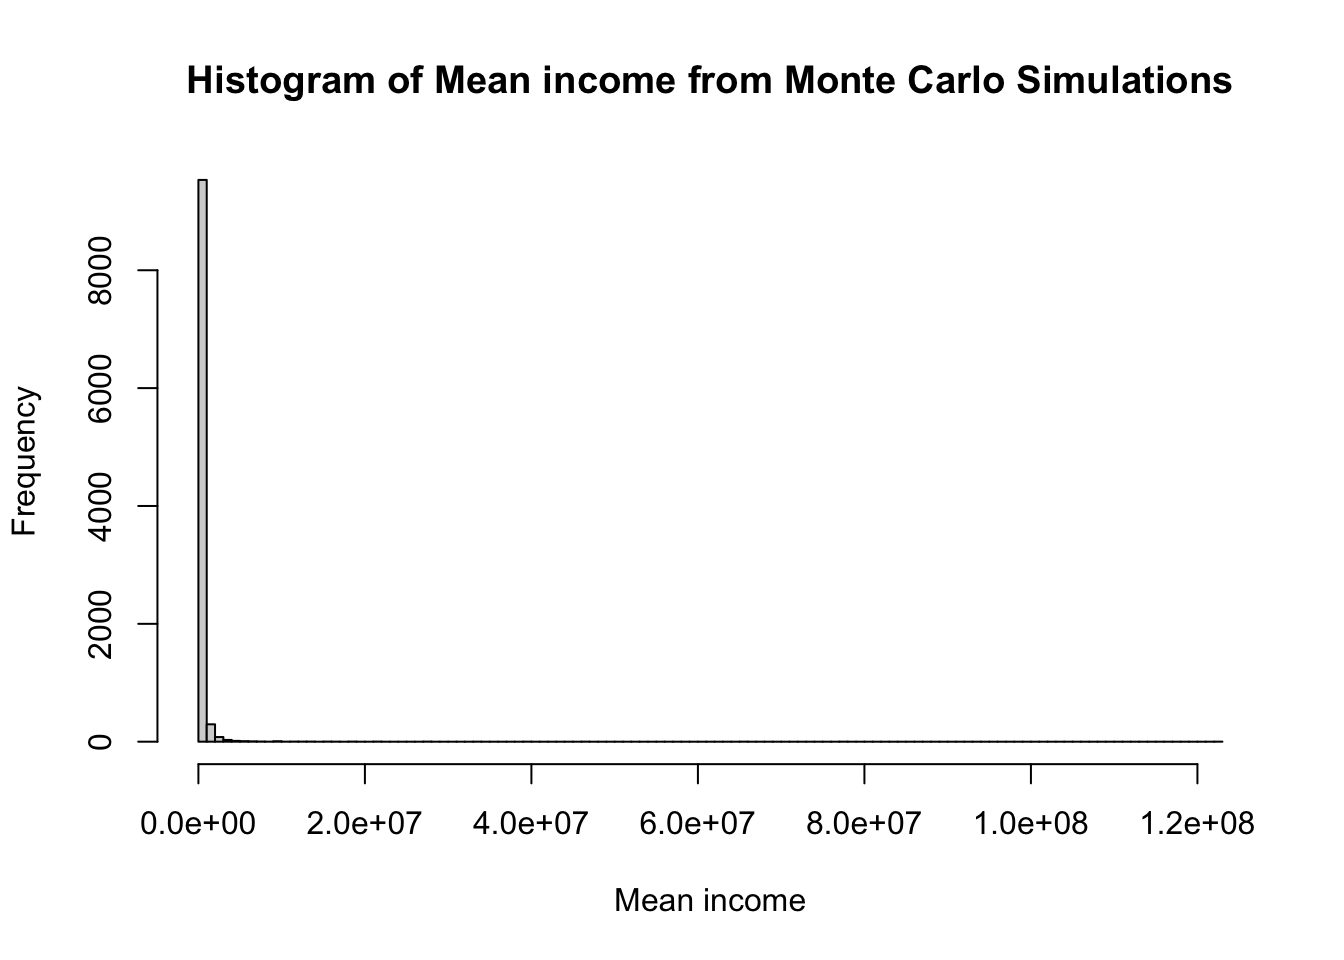
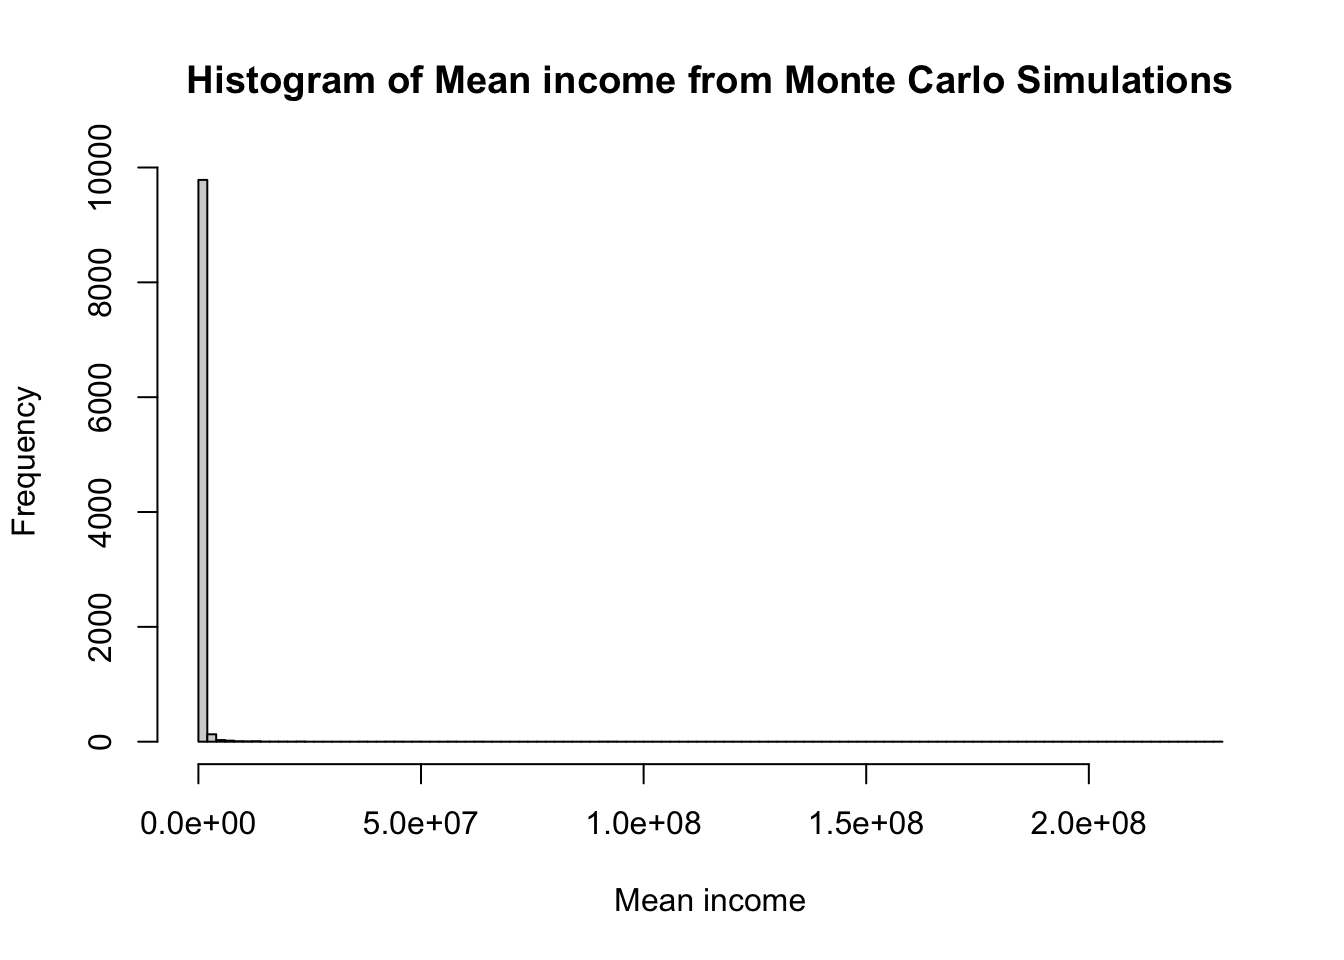
281124scroll

diff --git a/docs/posts/montecarlo.html b/docs/posts/montecarlo.html
@@ -1977,7 +1977,7 @@ Income distribution is not normal
 </details>
 <div class="cell-output cell-output-stdout">
 <pre><code>     Min.   1st Qu.    Median      Mean   3rd Qu.      Max. 
-   206564    296652    343461    523539    437288 122857154 </code></pre>
+   207500    295948    344892    577105    439793 228674374 </code></pre>
 </div>
 <details open="" class="code-fold">
 <summary>Code</summary>
@@ -1985,7 +1985,7 @@ Income distribution is not normal
 </details>
 <div class="cell-output cell-output-stdout">
 <pre><code>   Min. 1st Qu.  Median    Mean 3rd Qu.    Max. 
-  62353   64074   64509   64519   64949   67003 </code></pre>
+  62353   64069   64493   64501   64925   66985 </code></pre>
 </div>
 <details open="" class="code-fold">
 <summary>Code</summary>
@@ -1993,7 +1993,7 @@ Income distribution is not normal
 </details>
 <div class="cell-output cell-output-stdout">
 <pre><code>     Min.   1st Qu.    Median      Mean   3rd Qu.      Max. 
-8.625e+05 3.349e+06 5.619e+06 2.292e+07 1.173e+07 1.226e+10 </code></pre>
+9.873e+05 3.333e+06 5.734e+06 2.825e+07 1.206e+07 2.283e+10 </code></pre>
 </div>
 </div>
 </section>

diff --git a/docs/Biomedical/Research Methodology/wrangling.html b/docs/Biomedical/Research Methodology/wrangling.html
@@ -3272,10 +3272,10 @@ Record
 <div class="cell-output cell-output-stdout">
 <pre><code>     age   sex  class
    &lt;int&gt; &lt;int&gt; &lt;fctr&gt;
-1:     1     0  child
+1:     1     1  child
 2:     2     0  child
-3:     3     0  child
-4:     4     0  child
+3:     3     1  child
+4:     4     1  child
 5:     5     1  child
 6:     6     0  child</code></pre>
 </div>
@@ -3295,10 +3295,10 @@ Record
 <pre><code>Key: &lt;age&gt;
      age      0      1
    &lt;int&gt; &lt;fctr&gt; &lt;fctr&gt;
-1:     1  child   &lt;NA&gt;
+1:     1   &lt;NA&gt;  child
 2:     2  child   &lt;NA&gt;
-3:     3  child   &lt;NA&gt;
-4:     4  child   &lt;NA&gt;
+3:     3   &lt;NA&gt;  child
+4:     4   &lt;NA&gt;  child
 5:     5   &lt;NA&gt;  child
 6:     6  child   &lt;NA&gt;</code></pre>
 </div>

diff --git a/Education technology/Presentation/skillpresent-speaker.html b/Education technology/Presentation/skillpresent-speaker.html
@@ -82,7 +82,6 @@
     }
     .reveal .slide:not(.center) {
       height: 100%;
-      overflow-y: auto;
     }
     .reveal .slide.scrollable {
       overflow-y: auto;

diff --git a/docs/Education technology/Presentation/skillpresent.html b/docs/Education technology/Presentation/skillpresent.html
@@ -82,7 +82,6 @@
     }
     .reveal .slide:not(.center) {
       height: 100%;
-      overflow-y: auto;
     }
     .reveal .slide.scrollable {
       overflow-y: auto;
